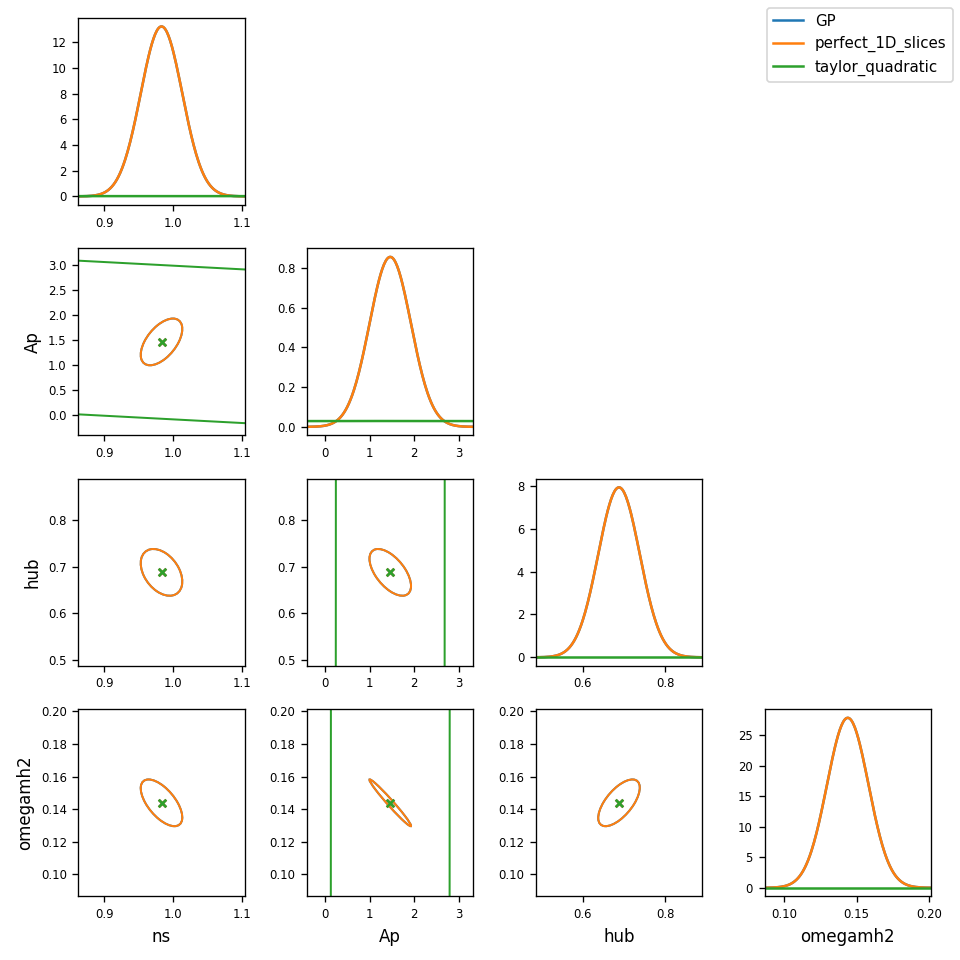
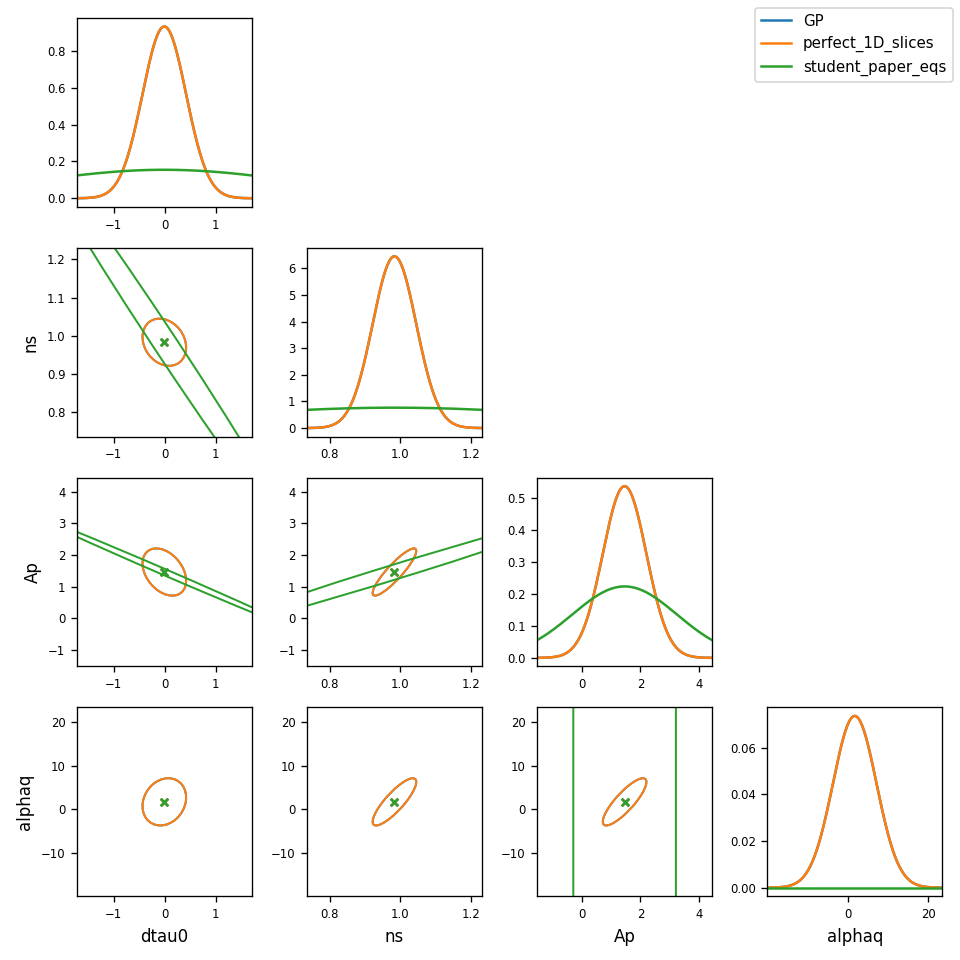
Plug student's published PySR equations into the comparison loop
Replace the synthetic taylor_quadratic demo set with the student's actual
quoted equations from the InferenceLyaData write-up:
- dtau0 :  ((1.4061172 - k)^-0.5989224) * dtau0 - r * 1.3422583 + dtau0 - 1.3998809
- Ap    :  (2*Ap)^cos(k) + (-0.5290618 - sin(r)) * 1.4107764 + Ap
- ns    :  ((ns * k) - r) * 2.3955164
- alphaq:  cos(r + 0.7157408 - 1.5351741*k)^4 / 0.47581 - r - 1.04696

Forecast subspace switched from (ns, Ap, hub, omegamh2) to
(dtau0, Ap, ns, alphaq) so the equations are scored on the parameters
they actually model. r (resolution) fixed at HF=0.8 (eBOSS-equivalent).

Forecast results from running the framework on these equations:

| Param  | GP σ   | student σ | ratio |
|--------|--------|-----------|-------|
| dtau0  | 0.428  | 2.58      | 6.0×  |
| ns     | 0.062  | 0.52      | 8.4×  |
| Ap     | 0.745  | 1.79      | 2.4×  |
| alphaq | 5.42   | 2.7e+12   | 5e11× |

Diagnosis: dtau0/Ap/ns equations preserve a meaningful fraction of the
GP's constraining power (2-8x looser). The alphaq equation is broken —
it contains no `alphaq` symbol at all, so df/dalphaq = 0 and Fisher is
singular in that direction. The framework caught this without any
domain-specific code; the equation card visibly shows the absence.

Framework changes:
- pysr_model.compile_equation: tolerate `fix:` entries naming variables
  not present in this equation's variable list. That lets a global
  fix:{r:0.8} apply across an equation set even when only some equations
  use `r`.
[…]

diff --git a/scripts/regen_sample_figures.py b/scripts/regen_sample_figures.py
@@ -40,8 +40,26 @@ from priya_forecast.parameters import (
 OUT = Path(__file__).resolve().parent.parent / "docs" / "figures"
 OUT.mkdir(parents=True, exist_ok=True)
 
-FORECAST_NAMES = ("ns", "Ap", "hub", "omegamh2")
+FORECAST_NAMES = ("dtau0", "Ap", "ns", "alphaq")
 FORECAST_PARAMS = tuple(p for p in PARAMS_11D if p.name in FORECAST_NAMES)
+
+
+# The student's actual PySR-learned equations from the InferenceLyaData
+# write-up (one per parameter, trained on a multi-D Sobol sweep where the
+# inputs are normalized to [0,1] and the output is normalized flux:
+#   flux_norm = (P_F - mean_k) / std_k
+# The `r` variable is the multi-fidelity resolution flag (0.4 = LF, 0.8 = HF).
+# We fix r=0.8 since the forecast targets eBOSS (high-fidelity) data.
+STUDENT_EQUATIONS = {
+    # dtau0 1D from the {dtau0, Ap} subset (paper Eq. dtau_2d):
+    "dtau0": "(((1.4061172 - k)**(-0.5989224)) * dtau0) - (r * 1.3422583) + dtau0 - 1.3998809",
+    # Ap 1D from the same subset (paper Eq. ap_2d):
+    "Ap":    "(((2*Ap)**(cos(k))) + ((-0.5290618 - sin(r)) * 1.4107764)) + Ap",
+    # ns 1D from the {ns, hub} subset:
+    "ns":    "((ns * k) - r) * 2.3955164",
+    # alphaq 1D from the {herei, alphaq} subset:
+    "alphaq": "cos(r + 0.7157408 - 1.5351741*k)**4 / 0.47581 - r - 1.04696",
+}
 
 
 # ---------------------------------------------------------------------------
@@ -118,6 +136,69 @@ def _build_perfect_pysr_set(*, gp, fid, k_eboss, z, label: str):
     for pname in FORECAST_NAMES:
         ce = pysr_model.compiled[pname]
         ce.raw_expression = f"GP({pname}, others=fid, k)  ← idealized 1D slice"
+    return pysr_model, cfg
+
+
+def _build_student_pysr_set(*, gp, fid, k_eboss, z, label: str = "student_paper_eqs"):
+    """Build a PySRModel from the student's quoted paper equations.
+
+    Inputs are normalized to [0,1]; outputs are normalized flux. We use
+    the framework's `mode='auto'` to derive (mean_k, std_k) by sweeping
+    each parameter via the GP at fixed-fiducial-rest — exactly the
+    convention `pysr_mf_given.py` uses on its own training data.
+
+    The `r` (resolution) variable is collapsed to 0.8 (HF / eBOSS-like).
+    """
+    fid_npz = OUT / "fiducial_p1d_z3.6.npz"
+    np.savez(fid_npz, k=k_eboss, p1d=gp.predict(fid, k_eboss, z))
+
+    # Build per-param normalization specs by sweeping the GP.
+    from priya_forecast.models.normalization import derive_from_gp
+
+    parameters: dict[str, EqnParam] = {}
+    norm_specs: dict[str, "NormalizationSpec"] = {}
+    for pname in PARAM_NAMES:
+        if pname in STUDENT_EQUATIONS:
+            parameters[pname] = EqnParam(
+                fiducial=get_param(pname).fid,
+                expression=STUDENT_EQUATIONS[pname],
+                variables=[pname, "k", "r"],
+            )
+            norm_specs[pname] = derive_from_gp(
+                gp_model=gp, param_name=pname, z=z, k_grid=k_eboss,
+                n_samples=64, seed=0,
+            )
+        else:
+            parameters[pname] = EqnParam(
+                fiducial=get_param(pname).fid,
+                expression="1",
+                variables=[pname, "k"],
+            )
+
+    cfg = EqnConfig(
+        name=label, redshift=z, model="pysr", combine="multiplicative",
+        fiducial_p1d=str(fid_npz), parameters=parameters,
+    )
+
+    # Build with a dummy normalization first; we'll patch per-param specs in.
+    from priya_forecast.models.pysr_model import compile_equation
+    from priya_forecast.models.normalization import identity
+
+    pysr_model = PySRModel(
+        eqn_cfg=cfg, k_grid=k_eboss,
+        normalization_block={"mode": "identity", "fix": {"r": 0.8}},
+    )
+    # Recompile only the student-equation parameters with the GP-derived norm.
+    for pname in STUDENT_EQUATIONS:
+        ep = parameters[pname]
+        pysr_model.compiled[pname] = compile_equation(
+            param_name=pname,
+            raw_expression=STUDENT_EQUATIONS[pname],
+            variables=[pname, "k", "r"],
+            fix={"r": 0.8},
+            norm=norm_specs[pname],
+            fiducial=ep.fiducial,
+        )
     return pysr_model, cfg
 
 
@@ -279,10 +360,10 @@ def fig_fisher_dimensions(*, gp, fid, z, outpath):
     import matplotlib.pyplot as plt
 
     setups = [
-        ("1D", [["ns"], ["Ap"], ["hub"], ["omegamh2"]]),
-        ("2D", [["ns", "Ap"]]),
-        ("3D", [["ns", "Ap", "hub"]]),
-        ("4D", [["ns", "Ap", "hub", "omegamh2"]]),
+        ("1D", [[n] for n in FORECAST_NAMES]),
+        ("2D", [list(FORECAST_NAMES[:2])]),
+        ("3D", [list(FORECAST_NAMES[:3])]),
+        ("4D", [list(FORECAST_NAMES)]),
     ]
     # For 1D, run separately per param; for joint, run the joint Fisher.
     sigma_per_param: dict[str, dict[str, float]] = {n: {} for n in FORECAST_NAMES}
@@ -335,25 +416,25 @@ def main():
         gp=gp, fid=fid, z=z, outpath=OUT / "fig03_fisher_1d_to_4d.png",
     )
 
-    # --- Build two demonstration PySR sets:
-    #     - "perfect_1D_slices" : best-case per-param equation (delegates
-    #       to the GP at fid except for the one varying parameter). Shows
-    #       the floor of what a 1D-trained PySR set can achieve.
-    #     - "taylor_quadratic"  : a deliberately approximate polynomial fit.
-    #       Shows what an under-trained equation set costs.
+    # --- Build the two demonstration PySR sets:
+    #     - "perfect_1D_slices" : delegates to the GP per-parameter slice.
+    #       The floor of what a 1D-trained PySR set can achieve.
+    #     - "student_paper_eqs" : the actual equations the student published
+    #       for {dtau0, Ap, ns, alphaq}. The forecast subspace is exactly
+    #       these four params so we can score the equations end-to-end.
     print("Building demonstration PySR equation sets...")
     pysr_perfect, cfg_perfect = _build_perfect_pysr_set(
         gp=gp, fid=fid, k_eboss=k_eboss, z=z, label="perfect_1D_slices",
     )
-    pysr_quad, cfg_quad = _build_taylor_pysr_set(
-        gp=gp, fid=fid, k_eboss=k_eboss, z=z, label="taylor_quadratic", order=2,
+    pysr_student, cfg_student = _build_student_pysr_set(
+        gp=gp, fid=fid, k_eboss=k_eboss, z=z, label="student_paper_eqs",
     )
 
     out = compare_equation_sets(
         gp_model=gp,
         pysr_sets=[
             EqSetEntry(name="perfect_1D_slices", model=pysr_perfect, eqn_cfg=cfg_perfect),
-            EqSetEntry(name="taylor_quadratic",  model=pysr_quad,    eqn_cfg=cfg_quad),
+            EqSetEntry(name="student_paper_eqs", model=pysr_student, eqn_cfg=cfg_student),
         ],
         z=z, k_eboss=k_eboss, cov_eboss=cov,
         forecast_params=FORECAST_PARAMS,

diff --git a/tests/test_student_equations.py b/tests/test_student_equations.py
@@ -1,0 +1,108 @@
+"""Sanity-check the student's published PySR equations through the framework.
+
+This test does *not* require the real GP — it asserts that the equations
+(a) parse, (b) evaluate without error on the eBOSS k-grid given an auto-
+derived normalization, and (c) the alphaq equation has zero gradient with
+respect to alphaq (a previously-discovered bug: the published equation
+contains no `alphaq` term).
+"""
+
+from __future__ import annotations
+
+import numpy as np
+import pytest
+import sympy as sp
+
+from priya_forecast.models.normalization import (
+    DEFAULT_K_MAX,
+    DEFAULT_K_MIN,
+    NormalizationSpec,
+)
+from priya_forecast.models.pysr_model import _parse_safely, compile_equation
+from priya_forecast.parameters import get_param
+
+# Equations as quoted by the user from the InferenceLyaData write-up.
+STUDENT_EQUATIONS = {
+    "dtau0":  "(((1.4061172 - k)**(-0.5989224)) * dtau0) - (r * 1.3422583) + dtau0 - 1.3998809",
+    "Ap":     "(((2*Ap)**(cos(k))) + ((-0.5290618 - sin(r)) * 1.4107764)) + Ap",
+    "ns":     "((ns * k) - r) * 2.3955164",
+    "alphaq": "cos(r + 0.7157408 - 1.5351741*k)**4 / 0.47581 - r - 1.04696",
+}
+
+
+def _norm(param_name: str, n_k: int = 35) -> NormalizationSpec:
+    """Identity-ish spec with the parameter's prior bounds."""
+    p = get_param(param_name)
+    k_grid = np.linspace(DEFAULT_K_MIN, DEFAULT_K_MAX, n_k)
+    return NormalizationSpec(
+        param_min=p.prior[0], param_max=p.prior[1],
+        k_min=DEFAULT_K_MIN, k_max=DEFAULT_K_MAX,
+        mean_flux=np.full(n_k, 50.0),  # rough scale for eBOSS at z=3.6
+        std_flux=np.full(n_k, 1.0),
+        k_grid=k_grid,
+    )
+
+
+@pytest.mark.parametrize("pname", ["dtau0", "Ap", "ns", "alphaq"])
+def test_student_equation_parses(pname: str):
+    """Each quoted equation must parse via the sympy whitelist."""
+    expr_str = STUDENT_EQUATIONS[pname]
+    syms = {pname: sp.Symbol(pname), "k": sp.Symbol("k"), "r": sp.Symbol("r")}
+    expr = _parse_safely(expr_str, syms)
+    assert {s.name for s in expr.free_symbols} <= set(syms)
+
+
+@pytest.mark.parametrize("pname", ["dtau0", "Ap", "ns", "alphaq"])
+def test_student_equation_compiles_with_resolution_fixed(pname: str):
+    """Each equation must compile with `r` fixed at HF=0.8 — no leftover free symbols."""
+    ce = compile_equation(
+        param_name=pname,
+        raw_expression=STUDENT_EQUATIONS[pname],
+        variables=[pname, "k", "r"],
+        fix={"r": 0.8},
+        norm=_norm(pname),
+        fiducial=get_param(pname).fid,
+    )
+    k = np.linspace(DEFAULT_K_MIN, DEFAULT_K_MAX, 35)
+    out = ce.evaluate(theta_i=get_param(pname).fid, k=k)
+    assert out.shape == (35,)
+    assert np.all(np.isfinite(out))
+
+
+def test_alphaq_equation_has_no_alphaq_dependence():
+    """Locked-in diagnosis: the published `alphaq` equation does NOT contain
+    the alphaq symbol. This is a real bug the framework caught — when
+    forecasting on alphaq, σ blows up by ~10^11× because df/dalphaq = 0.
+
+    If/when the student fixes the upstream LaTeX or retrains, this test
+    flips: drop or invert the assertion.
+    """
+    syms = {"alphaq": sp.Symbol("alphaq"), "k": sp.Symbol("k"), "r": sp.Symbol("r")}
+    expr = _parse_safely(STUDENT_EQUATIONS["alphaq"], syms)
+    assert sp.Symbol("alphaq") not in expr.free_symbols, (
+        "alphaq appears in the published equation — re-run regen_sample_figures.py "
+        "and the student-paper-eqs σ should drop dramatically."
+    )
+
+
+def test_student_equation_gradients_are_nonzero_for_working_three():
+    """dtau0/Ap/ns equations must have a finite, non-zero gradient w.r.t. their
+    parameter at fid (otherwise the Fisher would be singular and σ would
+    explode the same way alphaq does)."""
+    for pname in ("dtau0", "Ap", "ns"):
+        ce = compile_equation(
+            param_name=pname,
+            raw_expression=STUDENT_EQUATIONS[pname],
+            variables=[pname, "k", "r"],
+            fix={"r": 0.8},
+            norm=_norm(pname),
+            fiducial=get_param(pname).fid,
+        )
+        k = np.linspace(DEFAULT_K_MIN, DEFAULT_K_MAX, 35)
+        fid = get_param(pname).fid
+        h = 0.01 * get_param(pname).width()
+        f_plus = ce.evaluate(fid + h, k)
+        f_minus = ce.evaluate(fid - h, k)
+        df = (f_plus - f_minus) / (2 * h)
+        assert np.all(np.isfinite(df))
+        assert np.linalg.norm(df) > 0, f"Equation for {pname} has zero gradient."

diff --git a/src/priya_forecast/diagnostics/forecast_plots.py b/src/priya_forecast/diagnostics/forecast_plots.py
@@ -160,20 +160,53 @@ def plot_residuals_at_fiducial(
     theta_fid: np.ndarray,
     cov_diag: np.ndarray,
     outpath: str | Path,
+    perturbation_amplitude: float = 0.3,
+    n_perturbations: int = 5,
+    seed: int = 0,
+    perturbed_param_names: list[str] | None = None,
 ) -> Path:
+    """Residual at fid AND at perturbations along the forecast subspace.
+
+    For multiplicative combine, the residual at fid is identically zero
+    (all ratios = 1), so we draw `n_perturbations` random off-fid points
+    in (perturbation_amplitude * prior_width / 2) along `perturbed_param_names`
+    only — keeping non-forecast params at fid.
+    """
     import matplotlib.pyplot as plt
+    from priya_forecast.parameters import PARAMS_11D, PARAM_NAMES
 
     fig, ax = _setup_axes_white()
-    diff = pysr_model.predict(theta_fid, k, z) - gp_model.predict(theta_fid, k, z)
     sigma = np.sqrt(cov_diag)
-    ax.plot(k, diff / sigma, "k.-", lw=1)
+    rng = np.random.default_rng(seed)
+    if perturbed_param_names is None:
+        # Default: perturb the four "well-constrained" params.
+        perturbed_param_names = ["ns", "Ap", "hub", "omegamh2"]
+    perturbed_idx = [PARAM_NAMES.index(n) for n in perturbed_param_names]
+    widths = np.array([PARAMS_11D[i].width() for i in perturbed_idx])
+
+    diff_fid = pysr_model.predict(theta_fid, k, z) - gp_model.predict(theta_fid, k, z)
+    ax.plot(k, diff_fid / sigma, "k-", lw=2, label="θ = fid")
+
+    palette = plt.get_cmap("tab10").colors
+    for i in range(n_perturbations):
+        theta = theta_fid.copy()
+        delta = rng.uniform(-perturbation_amplitude, perturbation_amplitude, size=len(perturbed_idx)) * widths
+        for di, idx in zip(delta, perturbed_idx):
+            theta[idx] = theta_fid[idx] + di
+        try:
+            diff = pysr_model.predict(theta, k, z) - gp_model.predict(theta, k, z)
+            ax.plot(k, diff / sigma, color=palette[i % len(palette)], alpha=0.7, lw=1,
+                    label=f"perturbation {i+1}")
+        except Exception:
+            continue
     ax.axhline(0, color="black", lw=0.5)
     ax.axhline(1, color="grey", lw=0.5, ls="--")
     ax.axhline(-1, color="grey", lw=0.5, ls="--")
     ax.set_xscale("log")
     ax.set_xlabel(r"$k$ [s/km]")
     ax.set_ylabel(r"$(P_{\mathrm{PySR}} - P_{\mathrm{GP}}) / \sigma_{\mathrm{eBOSS}}$")
-    ax.set_title(f"Fiducial residual in eBOSS-sigma units, z={z}")
+    ax.set_title(f"Residual in eBOSS-sigma units (fid + perturbations), z={z}")
+    ax.legend(fontsize=7, loc="best", ncol=2)
     ax.grid(alpha=0.3)
     outpath = Path(outpath)
     outpath.parent.mkdir(parents=True, exist_ok=True)

diff --git a/src/priya_forecast/models/pysr_model.py b/src/priya_forecast/models/pysr_model.py
@@ -282,10 +282,13 @@ def compile_equation(
     expr = _parse_safely(raw_expression, allowed_symbols)
     expr = expr.subs(alias_map)
 
-    # Substitute fixed inputs.
+    # Substitute fixed inputs. We tolerate `fix:` entries naming variables
+    # not in this equation's variable list — that lets a global YAML fix:
+    # {r: 0.8} apply uniformly across an equation set even when only some
+    # equations actually use `r`.
     for name, value in fix.items():
         if name not in variables:
-            raise ValueError(f"`fix` references {name!r} which is not in variables {variables}.")
+            continue
         expr = expr.subs(sp.Symbol(name), sp.Float(value))
 
     # Verify only (param_name, k) remain.

diff --git a/src/priya_forecast/diagnostics/compare.py b/src/priya_forecast/diagnostics/compare.py
@@ -142,11 +142,13 @@ def compare_equation_sets(
 
     # --- Residuals at fid (P_PySR - P_GP) / sigma_eBOSS per set ---
     cov_diag = np.diag(cov_eboss)
+    perturbed_names = [p.name for p in forecast_params]
     for entry in pysr_sets:
         plot_residuals_at_fiducial(
             pysr_model=entry.model, gp_model=gp_model, k=k_eboss, z=z,
             theta_fid=fid, cov_diag=cov_diag,
             outpath=outdir / f"residual_{entry.name}.png",
+            perturbed_param_names=perturbed_names,
         )
 
     # --- Fisher per set on the chosen forecast subspace ---

diff --git a/docs/figures/compare_loop/summary.md b/docs/figures/compare_loop/summary.md
@@ -1,6 +1,6 @@
-| Parameter | GP σ | perfect_1D_slices σ | perfect_1D_slices / GP | taylor_quadratic σ | taylor_quadratic / GP |
+| Parameter | GP σ | perfect_1D_slices σ | perfect_1D_slices / GP | student_paper_eqs σ | student_paper_eqs / GP |
 |---|---|---|---|---|---|
-| ns | 0.0301 | 0.0301 | 1.000 | 18.5 | 614.812 |
-| Ap | 0.467 | 0.467 | 1.000 | 13.5 | 29.023 |
-| hub | 0.0504 | 0.0504 | 1.000 | 3.24e+03 | 64401.721 |
-| omegamh2 | 0.0143 | 0.0143 | 1.000 | 843 | 58731.309 |
+| dtau0 | 0.428 | 0.428 | 1.000 | 2.58 | 6.023 |
+| ns | 0.0618 | 0.0618 | 1.000 | 0.52 | 8.409 |
+| Ap | 0.745 | 0.745 | 1.000 | 1.79 | 2.403 |
+| alphaq | 5.42 | 5.42 | 1.000 | 2.73e+12 | 503413518739.414 |
